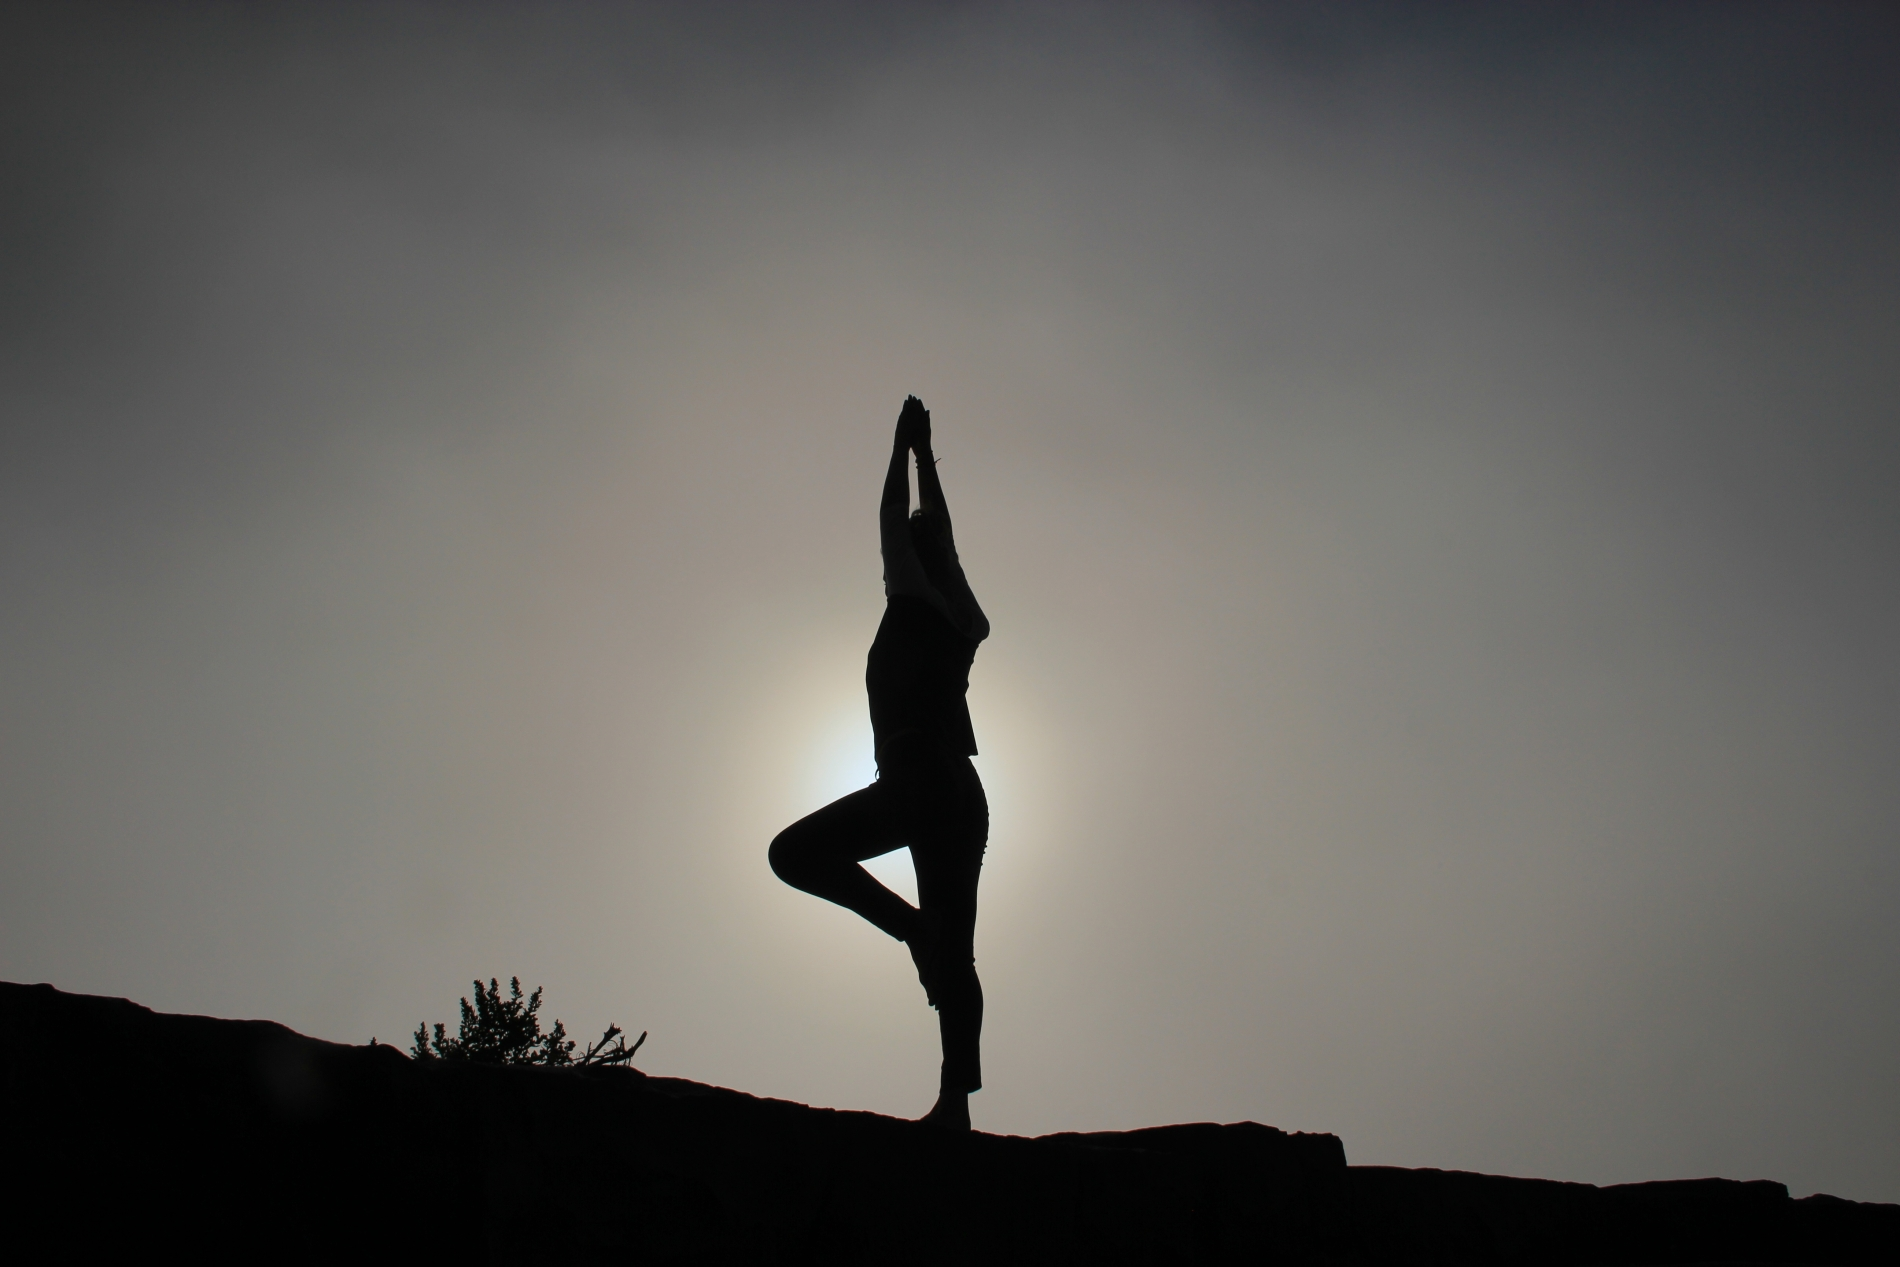
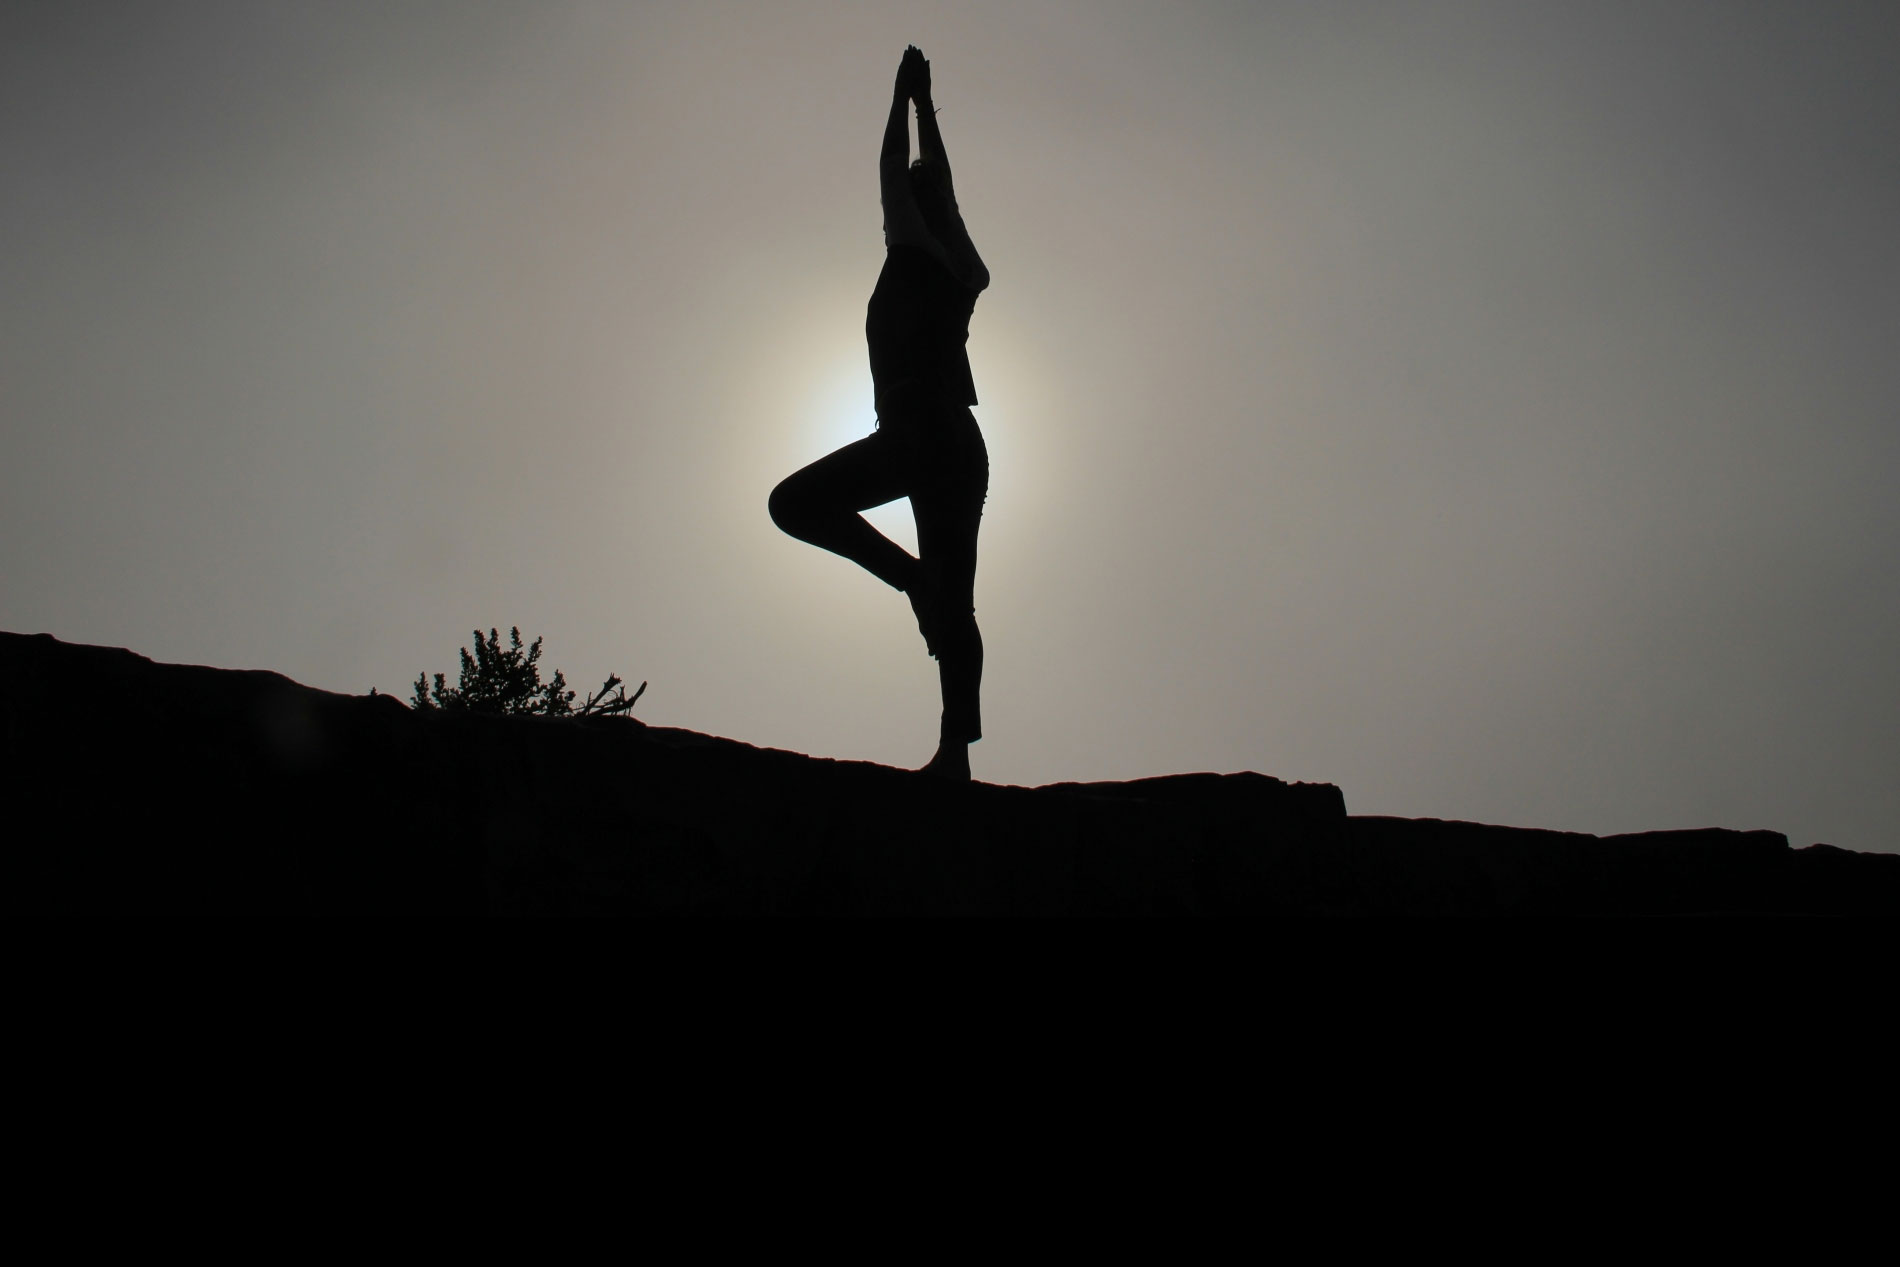
fixing parallax

diff --git a/user/themes/zrq/css/dist/app.dist.css b/user/themes/zrq/css/dist/app.dist.css
@@ -287,7 +287,7 @@ body.home-page section#body {
 #home #parallax3 {
     color: white;
     height: 800px;
-    padding: 100px 0 0 0;
+    /*padding: 100px 0 0 0;*/
 }
 
 #home #parallax4,
@@ -296,15 +296,15 @@ body.home-page section#body {
 {
     color: white;
     height: 800px;
-    padding: 100px 0 0 0;
+    /*padding: 100px 0 0 0;*/
 }
 
 #home #parallax5,
 #home #parallax7,
 #home #parallax9 {
     color: white;
-    height: 800px;
-    padding: 100px 0 0 0;
+    height: 1200px;
+    padding: -500px 0 0 0;
 }
 
 #home .story p,

diff --git a/user/themes/zrq/css/home_page.css b/user/themes/zrq/css/home_page.css
@@ -32,7 +32,7 @@ body.home-page section#body {
 #home #parallax3 {
     color: white;
     height: 800px;
-    padding: 100px 0 0 0;
+    /*padding: 100px 0 0 0;*/
 }
 
 #home #parallax4,
@@ -41,15 +41,15 @@ body.home-page section#body {
 {
     color: white;
     height: 800px;
-    padding: 100px 0 0 0;
+    /*padding: 100px 0 0 0;*/
 }
 
 #home #parallax5,
 #home #parallax7,
 #home #parallax9 {
     color: white;
-    height: 800px;
-    padding: 100px 0 0 0;
+    height: 1200px;
+    padding: -500px 0 0 0;
 }
 
 #home .story p,
